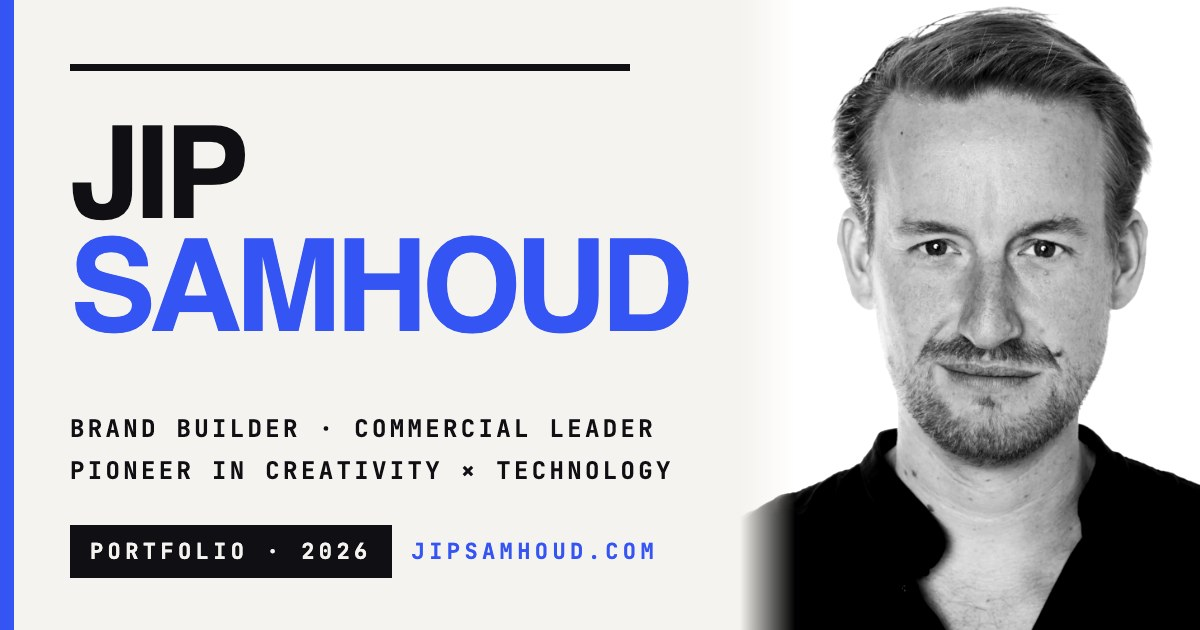
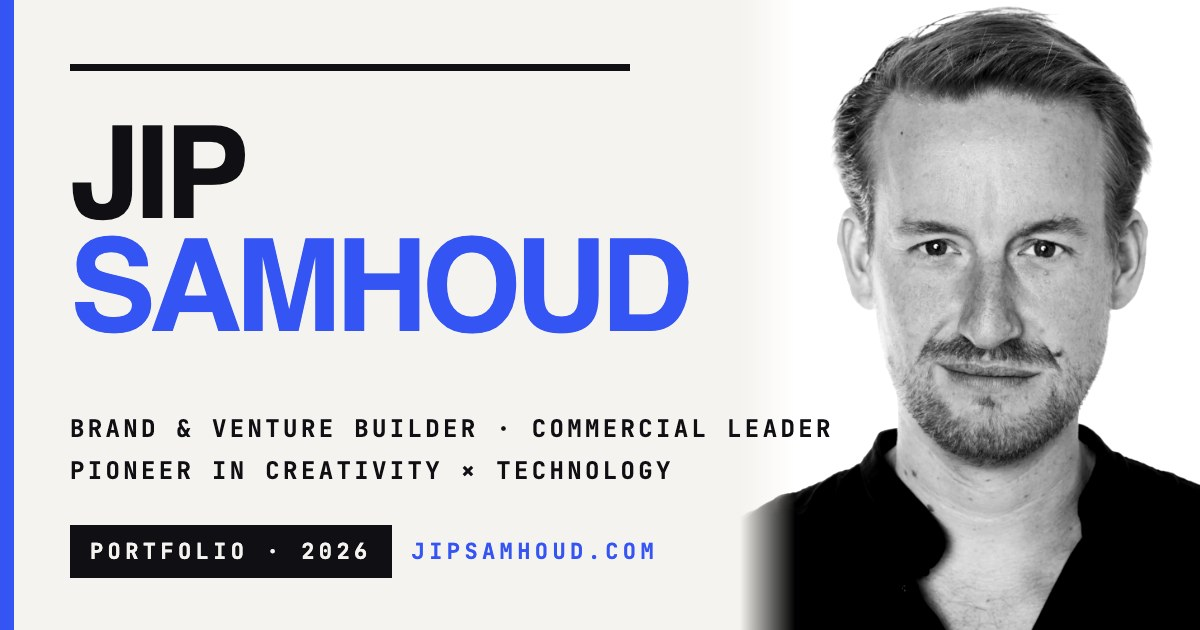
Brand & Venture Builder positioning, MOBILISER block, dedupe proof points, og-card v5

Changed region(s): [[0.1542, 0.6635, 0.7092, 0.6937]]

diff --git a/index.html b/index.html
@@ -11,7 +11,7 @@ WERKAFSPRAAK (niet verwijderen — volledige versie in CLAUDE.md van het Design-
    helmet-blok (support.js rendert dat runtime nogmaals in de head → dubbele
    tags). Statische <title> = korte versie; og:title/twitter:title = lange versie.
 3. OG-CARD — bij vervangen van de og-card het ?v=-nummer verhogen in álle
-   og:image- en twitter:image-verwijzingen (nu ?v=4).
+   og:image- en twitter:image-verwijzingen (nu ?v=5).
 4. SEMANTISCHE HTML — één <h1> (JIP SAMHOUD), <h2> voor sectiekoppen,
    beschrijvende alt-teksten. Visueel identiek houden.
 5. DOMEIN — alleen jipsamhoud.com; jipsamhoud.nl stuurt permanent door (301) en mag nergens meer als adres worden genoemd.
@@ -30,13 +30,13 @@ WERKAFSPRAAK (niet verwijderen — volledige versie in CLAUDE.md van het Design-
 <head>
 <meta charset="utf-8">
 <meta name="viewport" content="width=device-width, initial-scale=1">
-<title>Jip Samhoud — Brand Builder & Commercial Leader in Tech × AI</title>
-<meta name="description" content="Brand builder and commercial leader. Fifteen years of founding companies and shipping products that reach millions: from the world's first VR cinema to Let's Copilot.">
+<title>Jip Samhoud · Brand &amp; Venture Builder · Commercial Leader in Tech × AI</title>
+<meta name="description" content="Brand and venture builder, commercial leader. Fifteen years of founding companies and shipping products that reach millions: from the world's first VR cinema to Let's Copilot.">
 <meta name="author" content="Jip Samhoud">
-<meta property="og:title" content="Jip Samhoud — Brand Builder · Commercial Leader · Pioneer in Creativity × Technology">
-<meta property="og:description" content="Brand builder and commercial leader. Fifteen years of founding companies and shipping products that reach millions.">
+<meta property="og:title" content="Jip Samhoud · Brand &amp; Venture Builder · Commercial Leader · Pioneer in Creativity × Technology">
+<meta property="og:description" content="Brand and venture builder, commercial leader. Fifteen years of founding companies and shipping products that reach millions: from the world's first VR cinema to Let's Copilot.">
 <meta property="og:type" content="website">
-<meta property="og:image" content="https://jipsamhoud.com/assets/og-card.jpg?v=4">
+<meta property="og:image" content="https://jipsamhoud.com/assets/og-card.jpg?v=5">
 <link rel="icon" type="image/png" href="assets/favicon.png">
 <link rel="canonical" href="https://jipsamhoud.com/">
 <meta property="og:url" content="https://jipsamhoud.com/">
@@ -44,9 +44,9 @@ WERKAFSPRAAK (niet verwijderen — volledige versie in CLAUDE.md van het Design-
 <meta property="og:image:height" content="630">
 <meta property="og:image:type" content="image/jpeg">
 <meta name="twitter:card" content="summary_large_image">
-<meta name="twitter:title" content="Jip Samhoud — Brand Builder · Commercial Leader · Pioneer in Creativity × Technology">
-<meta name="twitter:image" content="https://jipsamhoud.com/assets/og-card.jpg?v=4">
-<script type="application/ld+json">{"@context":"https://schema.org","@type":"Person","name":"Jip Samhoud","url":"https://jipsamhoud.com","image":"https://jipsamhoud.com/assets/og-card.jpg?v=4","jobTitle":"Brand Builder, Commercial Leader & Pioneer in Creativity × Technology","worksFor":[{"@type":"Organization","name":"&samhoud","url":"https://www.samhoud.com"},{"@type":"Organization","name":"&ranj serious games","url":"https://www.ranj.com"},{"@type":"Organization","name":"Let's Copilot","url":"https://www.letscopilot.com"}],"alumniOf":["Stanford Graduate School of Business","Columbia Business School","Kellogg School of Management","Harvard Business School","Miami Ad School"],"address":{"@type":"PostalAddress","addressLocality":"Amsterdam","addressCountry":"NL"},"sameAs":["https://www.linkedin.com/in/jipsamhoud","https://www.samhoud.com","https://www.ranj.com","https://www.letscopilot.com"]}</script>
+<meta name="twitter:title" content="Jip Samhoud · Brand &amp; Venture Builder · Commercial Leader · Pioneer in Creativity × Technology">
+<meta name="twitter:image" content="https://jipsamhoud.com/assets/og-card.jpg?v=5">
+<script type="application/ld+json">{"@context":"https://schema.org","@type":"Person","name":"Jip Samhoud","url":"https://jipsamhoud.com","image":"https://jipsamhoud.com/assets/og-card.jpg?v=5","jobTitle":"Brand Builder, Commercial Leader & Pioneer in Creativity × Technology","worksFor":[{"@type":"Organization","name":"&samhoud","url":"https://www.samhoud.com"},{"@type":"Organization","name":"&ranj serious games","url":"https://www.ranj.com"},{"@type":"Organization","name":"Let's Copilot","url":"https://www.letscopilot.com"}],"alumniOf":["Stanford Graduate School of Business","Columbia Business School","Kellogg School of Management","Harvard Business School","Miami Ad School"],"address":{"@type":"PostalAddress","addressLocality":"Amsterdam","addressCountry":"NL"},"sameAs":["https://www.linkedin.com/in/jipsamhoud","https://www.samhoud.com","https://www.ranj.com","https://www.letscopilot.com"]}</script>
 <link rel="preconnect" href="https://fonts.googleapis.com">
 <link rel="preconnect" href="https://fonts.gstatic.com" crossorigin>
 <link href="https://fonts.googleapis.com/css2?family=Archivo:wght@400;600;800&family=Archivo+Expanded:wght@500;700&family=JetBrains+Mono:wght@400;500;700&family=Newsreader:ital,opsz,wght@0,6..72,300;0,6..72,400;1,6..72,300;1,6..72,400&display=optional" rel="stylesheet">
@@ -128,7 +128,7 @@ WERKAFSPRAAK (niet verwijderen — volledige versie in CLAUDE.md van het Design-
       </div>
     </div>
     <div style="text-align: center; font-family: 'Archivo Expanded', sans-serif; font-weight: 700; font-size: clamp(44px, 9.8vw, 146px); line-height: 0.9; letter-spacing: -0.04em; color: #3554f4; margin-top: -0.45em; position: relative;" data-hero-word2 aria-hidden="true"><span style="display: inline-block; animation: heroRise 0.9s cubic-bezier(0.22,1,0.36,1) 0.4s both;">S</span><span style="display: inline-block; animation: heroRise 0.9s cubic-bezier(0.22,1,0.36,1) 0.46s both;">A</span><span style="display: inline-block; animation: heroRise 0.9s cubic-bezier(0.22,1,0.36,1) 0.52s both;">M</span><span style="display: inline-block; animation: heroRise 0.9s cubic-bezier(0.22,1,0.36,1) 0.58s both;">H</span><span style="display: inline-block; animation: heroRise 0.9s cubic-bezier(0.22,1,0.36,1) 0.64s both;">O</span><span style="display: inline-block; animation: heroRise 0.9s cubic-bezier(0.22,1,0.36,1) 0.7s both;">U</span><span style="display: inline-block; animation: heroRise 0.9s cubic-bezier(0.22,1,0.36,1) 0.76s both;">D</span></div>
-    <div data-hero-tagline style="text-align: center; margin: clamp(20px, 3vw, 36px) auto 0 auto; font-family: 'JetBrains Mono', monospace; font-size: clamp(11px, 1.3vw, 13px); letter-spacing: 0.3em; animation: heroFade 1s 1.2s both;">BRAND BUILDER · COMMERCIAL LEADER · PIONEER IN CREATIVITY × TECHNOLOGY</div>
+    <div data-hero-tagline style="text-align: center; margin: clamp(20px, 3vw, 36px) auto 0 auto; font-family: 'JetBrains Mono', monospace; font-size: clamp(11px, 1.3vw, 13px); letter-spacing: 0.3em; animation: heroFade 1s 1.2s both;">BRAND &amp; VENTURE BUILDER · COMMERCIAL LEADER · PIONEER IN CREATIVITY × TECHNOLOGY</div>
   </div>
 
   <!-- ═══ MARQUEE ═══ -->
@@ -171,7 +171,7 @@ WERKAFSPRAAK (niet verwijderen — volledige versie in CLAUDE.md van het Design-
         <h2 style="margin: 0; font-family: 'Archivo Expanded', sans-serif; font-weight: 700; font-size: clamp(38px, 6vw, 84px); letter-spacing: -0.03em; line-height: 1;">WHAT I BRING</h2>
         <div style="font-family: 'JetBrains Mono', monospace; font-size: 11px; letter-spacing: 0.24em; color: #45454d;">FOUR THINGS YOU CAN COUNT ON</div>
       </div>
-      <div data-reveal style="font-family: 'Newsreader', serif; font-weight: 300; font-size: clamp(18px, 1.9vw, 26px); line-height: 1.6; max-width: 880px; margin-bottom: clamp(36px, 5vw, 60px); color: #45454d;">Not a list of what I did, but what you get when I join: speed from problem to shipped product, a network that opens doors, a story people want to be part of, and ideas that are a first and do good.</div>
+      <div data-reveal style="font-family: 'Newsreader', serif; font-weight: 300; font-size: clamp(18px, 1.9vw, 26px); line-height: 1.6; max-width: 880px; margin-bottom: clamp(36px, 5vw, 60px); color: #45454d;">Not a list of what I did, but what you get when I join: speed from problem to shipped product, a network that opens doors, people who want to build what I see, and a rock in the water when it gets rough.</div>
       <div data-reveal>
         <div style="display: grid; grid-template-columns: repeat(auto-fit, minmax(220px, 1fr)); gap: clamp(12px, 2vw, 40px); padding: clamp(24px, 3vw, 40px) 0; border-top: 1px solid #101014;">
           <div style="display: flex; align-items: baseline; gap: 14px;">
@@ -191,14 +191,14 @@ WERKAFSPRAAK (niet verwijderen — volledige versie in CLAUDE.md van het Design-
           </div>
           <div style="font-family: 'Newsreader', serif; font-weight: 300; font-size: clamp(24px, 2.4vw, 34px); line-height: 1.2;">A network that opens doors.</div>
           <div style="display: flex; flex-direction: column; gap: 14px;">
-            <div style="font-family: 'Newsreader', serif; font-size: 16px; line-height: 1.6; color: #45454d;">Fifteen years of relationships with corporate boards, social organisations and politics, built for the long term. I use them to test an idea, scale it and sell it. Fifteen Albert Heijn campaigns came out of one first project. Adformatie called the client relationships "lasting by nature".</div>
+            <div style="font-family: 'Newsreader', serif; font-size: 16px; line-height: 1.6; color: #45454d;">Fifteen years of relationships with corporate boards, social organisations and politics, built for the long term. I use them to test an idea, scale it and sell it. Fifteen Albert Heijn campaigns came out of one first project. The IP was later licensed to Pingo Doce and Condis: a campaign budget that became export revenue. Adformatie called the client relationships "lasting by nature".</div>
             <div style="font-family: 'JetBrains Mono', monospace; font-size: 10px; letter-spacing: 0.18em; color: #3554f4;">€30M+ COMMISSIONED · CHAIRMAN DAC · NL2025</div>
           </div>
         </div>
         <div style="display: grid; grid-template-columns: repeat(auto-fit, minmax(220px, 1fr)); gap: clamp(12px, 2vw, 40px); padding: clamp(24px, 3vw, 40px) 0; border-top: 1px solid #101014;">
           <div style="display: flex; align-items: baseline; gap: 14px;">
             <span style="font-family: 'Archivo Expanded', sans-serif; font-weight: 700; font-size: clamp(34px, 3.4vw, 48px); line-height: 1; color: #3554f4;">03</span>
-            <span style="font-family: 'Archivo Expanded', sans-serif; font-weight: 700; font-size: clamp(15px, 1.4vw, 19px); letter-spacing: 0.06em;">INSPIRATOR</span>
+            <span style="font-family: 'Archivo Expanded', sans-serif; font-weight: 700; font-size: clamp(15px, 1.4vw, 19px); letter-spacing: 0.06em;">MOBILISER</span>
           </div>
           <div style="font-family: 'Newsreader', serif; font-weight: 300; font-size: clamp(24px, 2.4vw, 34px); line-height: 1.2;">I can sell an idea.</div>
           <div style="display: flex; flex-direction: column; gap: 14px;">
@@ -213,7 +213,7 @@ WERKAFSPRAAK (niet verwijderen — volledige versie in CLAUDE.md van het Design-
           </div>
           <div style="font-family: 'Newsreader', serif; font-weight: 300; font-size: clamp(24px, 2.4vw, 34px); line-height: 1.2;">"Rots in de branding."</div>
           <div style="display: flex; flex-direction: column; gap: 14px;">
-            <div style="font-family: 'Newsreader', serif; font-size: 16px; line-height: 1.6; color: #45454d;">Dutch for the rock the waves break on. Stable, reliable, a strong sense of responsibility. I build teams, keep them motivated and carry the outcome, in good years and in hard ones: eleven years leading a 40-FTE agency to Dutch Digital Agency of the Year. Board experience as chairman of a 102-year-old institution and strategic advisor to a prime minister's campaign.</div>
+            <div style="font-family: 'Newsreader', serif; font-size: 16px; line-height: 1.6; color: #45454d;">Dutch for the rock the waves break on. Stable, reliable, a strong sense of responsibility. I build teams, keep them motivated and carry the outcome, in good years and in hard ones: eleven years leading an agency through growth, a sale and everything in between. Board experience as chairman of a 102-year-old institution and strategic advisor to a prime minister's campaign.</div>
             <div style="font-family: 'JetBrains Mono', monospace; font-size: 10px; letter-spacing: 0.18em; color: #3554f4;">40 FTE · 11 YEARS · DIGITAL AGENCY OF THE YEAR</div>
           </div>
         </div>
@@ -334,19 +334,19 @@ WERKAFSPRAAK (niet verwijderen — volledige versie in CLAUDE.md van het Design-
           </div>
         </div>
         <div style="position: relative; min-height: 320px; border-left: 1px solid #101014; overflow: hidden;">
-          <img data-parallax="1" loading="lazy" src="assets/ziggo-wifi-ar.webp" alt="VodafoneZiggo wifi app — AR installation" style="position: absolute; inset: 0; width: 100%; height: 100%; object-fit: cover;">
+          <img data-parallax="1" loading="lazy" src="assets/ziggo-wifi-ar.webp" alt="VodafoneZiggo wifi app: AR installation" style="position: absolute; inset: 0; width: 100%; height: 100%; object-fit: cover;">
         </div>
       </div>
 
       <!-- Case 05 — Gaming -->
       <div data-reveal style="display: grid; grid-template-columns: repeat(auto-fit, minmax(320px, 1fr)); border: 1px solid #101014; margin-bottom: clamp(24px, 3vw, 40px); transition: border-color 0.3s, box-shadow 0.3s;" style-hover="border-color: #3554f4; box-shadow: 0 18px 48px rgba(53,84,244,0.16)">
         <div style="position: relative; min-height: 320px; overflow: hidden;">
-          <img data-parallax="1" loading="lazy" src="assets/techie-robot-ar.webp" alt="AH Techie — AR robot game" style="position: absolute; inset: 0; width: 100%; height: 100%; object-fit: cover; object-position: 50% 40%;">
+          <img data-parallax="1" loading="lazy" src="assets/techie-robot-ar.webp" alt="AH Techie: AR robot game" style="position: absolute; inset: 0; width: 100%; height: 100%; object-fit: cover; object-position: 50% 40%;">
         </div>
         <div style="padding: clamp(28px, 3.5vw, 52px); display: flex; flex-direction: column; gap: 18px; border-left: 1px solid #101014;">
           <div style="display: flex; justify-content: space-between; font-family: 'JetBrains Mono', monospace; font-size: 11px; letter-spacing: 0.26em; color: #3554f4;"><span>№ 05 · GAMING</span><span>2013–NOW</span></div>
           <div style="font-family: 'Archivo Expanded', sans-serif; font-weight: 700; font-size: clamp(24px, 2.6vw, 38px); line-height: 1.05; letter-spacing: -0.02em;">GAMES THAT CHANGE BEHAVIOUR AT SCALE</div>
-          <div style="font-family: 'Newsreader', serif; font-size: clamp(16px, 1.4vw, 18px); line-height: 1.7; color: #45454d;">Gaming runs through everything I build: gamified loyalty for Albert Heijn: 7M robots programmed in the Techie app, Dino's #1 in the App Store. And Rabobank's PinPin, the first PSD2 children's banking app with 500K+ users. Today as co-owner of &amp;ranj serious games, a 25-year studio and Game Studio of the Year, applying play to behaviour change for Johns Hopkins Institute, War Child and Zurich.</div>
+          <div style="font-family: 'Newsreader', serif; font-size: clamp(16px, 1.4vw, 18px); line-height: 1.7; color: #45454d;">Gaming runs through everything I build: gamified loyalty for Albert Heijn, with Dino's reaching #1 in the App Store. And Rabobank's PinPin, the first PSD2 children's banking app with 500K+ users. Today as co-owner of &amp;ranj serious games, a 25-year studio and Game Studio of the Year, applying play to behaviour change for Johns Hopkins Institute, War Child and Zurich.</div>
           <div style="margin-top: auto; display: flex; gap: 28px; flex-wrap: wrap; font-family: 'JetBrains Mono', monospace; font-size: 11px; letter-spacing: 0.14em; border-top: 1px solid #101014; padding-top: 16px;">
             <span>GAME STUDIO OF THE YEAR</span><a href="https://www.ranj.com" target="_blank" rel="noopener" style="color: #3554f4; text-decoration: underline; text-underline-offset: 3px;">RANJ.COM ↗</a>
           </div>
@@ -364,7 +364,7 @@ WERKAFSPRAAK (niet verwijderen — volledige versie in CLAUDE.md van het Design-
           </div>
         </div>
         <div style="position: relative; min-height: 320px; border-left: 1px solid #101014; overflow: hidden;">
-          <img data-parallax="1" loading="lazy" src="assets/anwb-streetwise.webp" alt="ANWB Streetwise Digitaal — digital traffic-safety learning programme" style="position: absolute; inset: 0; width: 100%; height: 100%; object-fit: cover; object-position: 50% 60%;">
+          <img data-parallax="1" loading="lazy" src="assets/anwb-streetwise.webp" alt="ANWB Streetwise Digitaal: digital traffic-safety learning programme" style="position: absolute; inset: 0; width: 100%; height: 100%; object-fit: cover; object-position: 50% 60%;">
         </div>
       </div>
     </div>
@@ -380,9 +380,9 @@ WERKAFSPRAAK (niet verwijderen — volledige versie in CLAUDE.md van het Design-
       <div data-reveal style="font-family: 'Newsreader', serif; font-weight: 300; font-size: clamp(20px, 2.2vw, 30px); line-height: 1.55; max-width: 900px; margin-bottom: clamp(40px, 5vw, 72px);">When technology becomes a commodity, the brand is what makes people choose. As an innovator I connect a brand's commercial, societal and public sides into one growth engine, with the creative vision to make something magical and the network to make it happen.</div>
       <div style="display: flex; flex-direction: column;">
         <div data-reveal data-tl-row style="display: grid; grid-template-columns: clamp(90px, 12vw, 160px) 1fr 2fr; gap: clamp(16px, 3vw, 48px); padding: 24px 0; border-top: 1px solid rgba(244,243,239,0.25); align-items: baseline;">
-          <div style="font-family: 'JetBrains Mono', monospace; font-size: 12px; letter-spacing: 0.14em; color: #98a4e8;">2023–NOW</div>
+          <div style="font-family: 'JetBrains Mono', monospace; font-size: 12px; letter-spacing: 0.14em; color: #98a4e8;">2023–2026</div>
           <div style="font-family: 'Archivo Expanded', sans-serif; font-weight: 700; font-size: clamp(17px, 1.7vw, 23px);" data-preview="assets/image4.webp"><a href="https://www.samhoud.com" target="_blank" rel="noopener" style="text-decoration: underline; text-underline-offset: 4px;">&amp;SAMHOUD</a></div>
-          <div style="font-family: 'Newsreader', serif; font-size: clamp(15px, 1.4vw, 18px); line-height: 1.6; color: #b9b9c0;">Co-owner &amp; director. Consultancy in vision, leadership &amp; transformation for boards across Europe, plus innovation &amp; venture building, across the 160 FTE group. № 1 in management consultancy (MT500).</div>
+          <div style="font-family: 'Newsreader', serif; font-size: clamp(15px, 1.4vw, 18px); line-height: 1.6; color: #b9b9c0;">Co-owner &amp; director. Consultancy in vision, leadership &amp; transformation for boards across Europe, plus innovation &amp; venture building, across the 160 FTE group. № 1 in management consultancy (MT500). Handed over the operational role in September 2026 to build the next chapter, remaining co-owner.</div>
         </div>
         <div data-reveal data-tl-row style="display: grid; grid-template-columns: clamp(90px, 12vw, 160px) 1fr 2fr; gap: clamp(16px, 3vw, 48px); padding: 24px 0; border-top: 1px solid rgba(244,243,239,0.25); align-items: baseline;">
           <div style="font-family: 'JetBrains Mono', monospace; font-size: 12px; letter-spacing: 0.14em; color: #98a4e8;">2024–NOW</div>
@@ -524,14 +524,14 @@ WERKAFSPRAAK (niet verwijderen — volledige versie in CLAUDE.md van het Design-
           <sc-if value="{{ nightfallPlaying }}" hint-placeholder-val="{{ false }}">
             <div onClick="{{ closeNightfall }}" style="position: fixed; inset: 0; z-index: 200; background: rgba(16,16,20,0.94); display: flex; align-items: center; justify-content: center; padding: clamp(12px, 3vw, 48px);">
               <div style="position: relative; width: min(1280px, 100%); aspect-ratio: 16/9;">
-                <iframe src="https://www.youtube-nocookie.com/embed/xCp4at6LE0A?autoplay=1&rel=0&playsinline=1" title="Nightfall — the world's first VR ballet" allow="autoplay; encrypted-media; fullscreen; picture-in-picture" allowfullscreen="allowfullscreen" style="position: absolute; inset: 0; width: 100%; height: 100%; border: 0; background: #101014;"></iframe>
+                <iframe src="https://www.youtube-nocookie.com/embed/xCp4at6LE0A?autoplay=1&rel=0&playsinline=1" title="Nightfall: the world's first VR ballet" allow="autoplay; encrypted-media; fullscreen; picture-in-picture" allowfullscreen="allowfullscreen" style="position: absolute; inset: 0; width: 100%; height: 100%; border: 0; background: #101014;"></iframe>
                 <button onClick="{{ closeNightfall }}" style="position: absolute; top: -44px; right: 0; background: none; border: 1px solid rgba(244,243,239,0.5); color: #f4f3ef; font-family: 'JetBrains Mono', monospace; font-size: 11px; letter-spacing: 0.18em; padding: 8px 14px; cursor: pointer;">CLOSE ✕</button>
                 <a href="https://www.youtube.com/watch?v=xCp4at6LE0A" target="_blank" rel="noopener" style="position: absolute; top: -44px; left: 0; font-family: 'JetBrains Mono', monospace; font-size: 11px; letter-spacing: 0.18em; color: #f4f3ef; border: 1px solid rgba(244,243,239,0.5); padding: 8px 14px;">OPEN ON YOUTUBE ↗</a>
               </div>
             </div>
           </sc-if>
           <div onClick="{{ playNightfall }}" style="position: absolute; inset: 0; cursor: pointer;">
-              <img data-parallax="1" loading="lazy" src="assets/image13.webp" alt="Ballerina with VR headset — Nightfall" style="position: absolute; inset: 0; width: 100%; height: 100%; object-fit: cover; object-position: 42% 20%; filter: grayscale(1) contrast(1.2) brightness(1.1);">
+              <img data-parallax="1" loading="lazy" src="assets/image13.webp" alt="Ballerina with VR headset, Nightfall" style="position: absolute; inset: 0; width: 100%; height: 100%; object-fit: cover; object-position: 42% 20%; filter: grayscale(1) contrast(1.2) brightness(1.1);">
               <div style="position: absolute; inset: 0; display: flex; align-items: center; justify-content: center;">
                 <div style="width: 74px; height: 74px; border-radius: 50%; background: rgba(16,16,20,0.75); border: 1px solid rgba(244,243,239,0.6); display: flex; align-items: center; justify-content: center; transition: background 0.3s, transform 0.3s;" style-hover="background: #3554f4; transform: scale(1.08)">
                   <div style="width: 0; height: 0; border-left: 20px solid #f4f3ef; border-top: 12px solid transparent; border-bottom: 12px solid transparent; margin-left: 5px;"></div>
@@ -597,7 +597,7 @@ WERKAFSPRAAK (niet verwijderen — volledige versie in CLAUDE.md van het Design-
       </div>
       <div data-reveal style="display: flex; justify-content: space-between; flex-wrap: wrap; gap: 12px; margin-top: clamp(40px, 6vw, 72px); padding-top: 20px; border-top: 1px solid rgba(244,243,239,0.25); font-family: 'JetBrains Mono', monospace; font-size: 10px; letter-spacing: 0.22em; color: #9d9da6;">
         <span>© JIP SAMHOUD · AMSTERDAM 2026</span>
-        <span>BRAND BUILDER · COMMERCIAL LEADER · PIONEER IN CREATIVITY × TECHNOLOGY</span>
+        <span>BRAND &amp; VENTURE BUILDER · COMMERCIAL LEADER · PIONEER IN CREATIVITY × TECHNOLOGY</span>
       </div>
     </div>
   </div>

diff --git a/SITE-CHANGELOG.md b/SITE-CHANGELOG.md
@@ -8,7 +8,7 @@
 
 ## Nog niet verwerkt in Design
 
-- (leeg)
+- **2026-09-10 — kleine designtaak (gezien bij deploy v11):** het JSON-LD `jobTitle` zegt nog "Brand Builder, Commercial Leader & Pioneer in Creativity × Technology" — zonder "Venture". Graag in de volgende export gelijktrekken met de nieuwe positionering ("Brand & Venture Builder …").
 
 ## Infrastructuur — LET OP bij Design (raakt index.html niet, maar wel de site)
 
@@ -20,6 +20,7 @@
 
 ## Verwerkt in Design
 
+- 2026-09-10 (export v11) — Revisiebrief verwerkt: positionering "BRAND & VENTURE BUILDER · COMMERCIAL LEADER · PIONEER IN CREATIVITY × TECHNOLOGY" (hero-tagline, footer, title, og:title/twitter:title, meta/og:description), nieuwe og-card met die regel (**?v=5** in og:image, twitter:image, JSON-LD image). Blok 03 INSPIRATOR → MOBILISER (subregel "I can sell an idea." en body bewust ongewijzigd), intro WHAT I BRING aangepast, Connector-zin Pingo Doce/Condis toegevoegd, Story &samhoud 2023–2026 + overdrachtszin, dedupe Work № 05/blok 04, em-dashes uit alt/title-attributen. Claude Code: llms.txt bijgewerkt (brand and venture builder, Mobiliser, Pingo Doce/Condis-zin, &samhoud-overdracht).
 - 2026-09-10 (export v10) — Adformatie-attributie zonder jaartal: "JIP SAMHOUD: FROM STARTUP TO MARKETING PIONEER IN SIX YEARS" · ADFORMATIE (link ongewijzigd). Verder identiek aan live v9. llms.txt gecontroleerd: daar stond geen jaartal.
 - 2026-09-10 — DOMEINMIGRATIE: jipsamhoud.com is nu het hoofddomein. Alle verwijzingen (canonical, og:url, og:image, twitter:image, JSON-LD, sitemap, robots, llms.txt) staan op jipsamhoud.com; jipsamhoud.nl stuurt permanent door met 301 en padbehoud. Werkafspraak punt 5 is omgedraaid. Designtaak gedaan in export v10: nieuwe og-card (assets/og-card.jpg) met JIPSAMHOUD.COM, ?v=4 in og:image, twitter:image en JSON-LD image; "jipsamhoud.nl" komt in ontwerpteksten alleen nog voor in werkafspraak punt 5 (redirect-vermelding).
 - 2026-09-10 (export v9) — Positioneringsronde "wat kom je brengen". Nieuwe hero-quote: "I build concepts, companies and innovations that inspire and connect millions of people, and move society forward." met Adformatie-attributieregel (2020) eronder. Nieuwe sectie **WHAT I BRING** (nav-item PROFILE → #bring) met vier tegels: Builder ("Three months, not two years."), Connector ("A network that opens doors."), Inspirator ("I can sell an idea."), Anchor ("Rots in de branding"). Verder: P&L expliciet (Builder + Story), VR Cinema nu "20 locations in 10 countries" (was 15+), Let's Copilot "100K+ users worldwide", stats-tegel "AGENCY BUILT & SOLD" → "DIGITAL AGENCY BUILT", "3BN GLOBAL MEDIA REACH", ticker "WORK IN 10+ COUNTRIES", e-mail jip@samhoud.nl → **jip@samhoud.com** (mailto, zichtbaar, JSON-LD, werkafspraak punt 6). llms.txt door Claude Code bijgewerkt met hero-quote, capabilities, VR-cijfers, P&L en nieuw e-mailadres. NB Claude Code: nieuwe cijfers (20 locaties/10 landen) zijn niet extern verifieerbaar — aangeleverd door Jip via Design.
